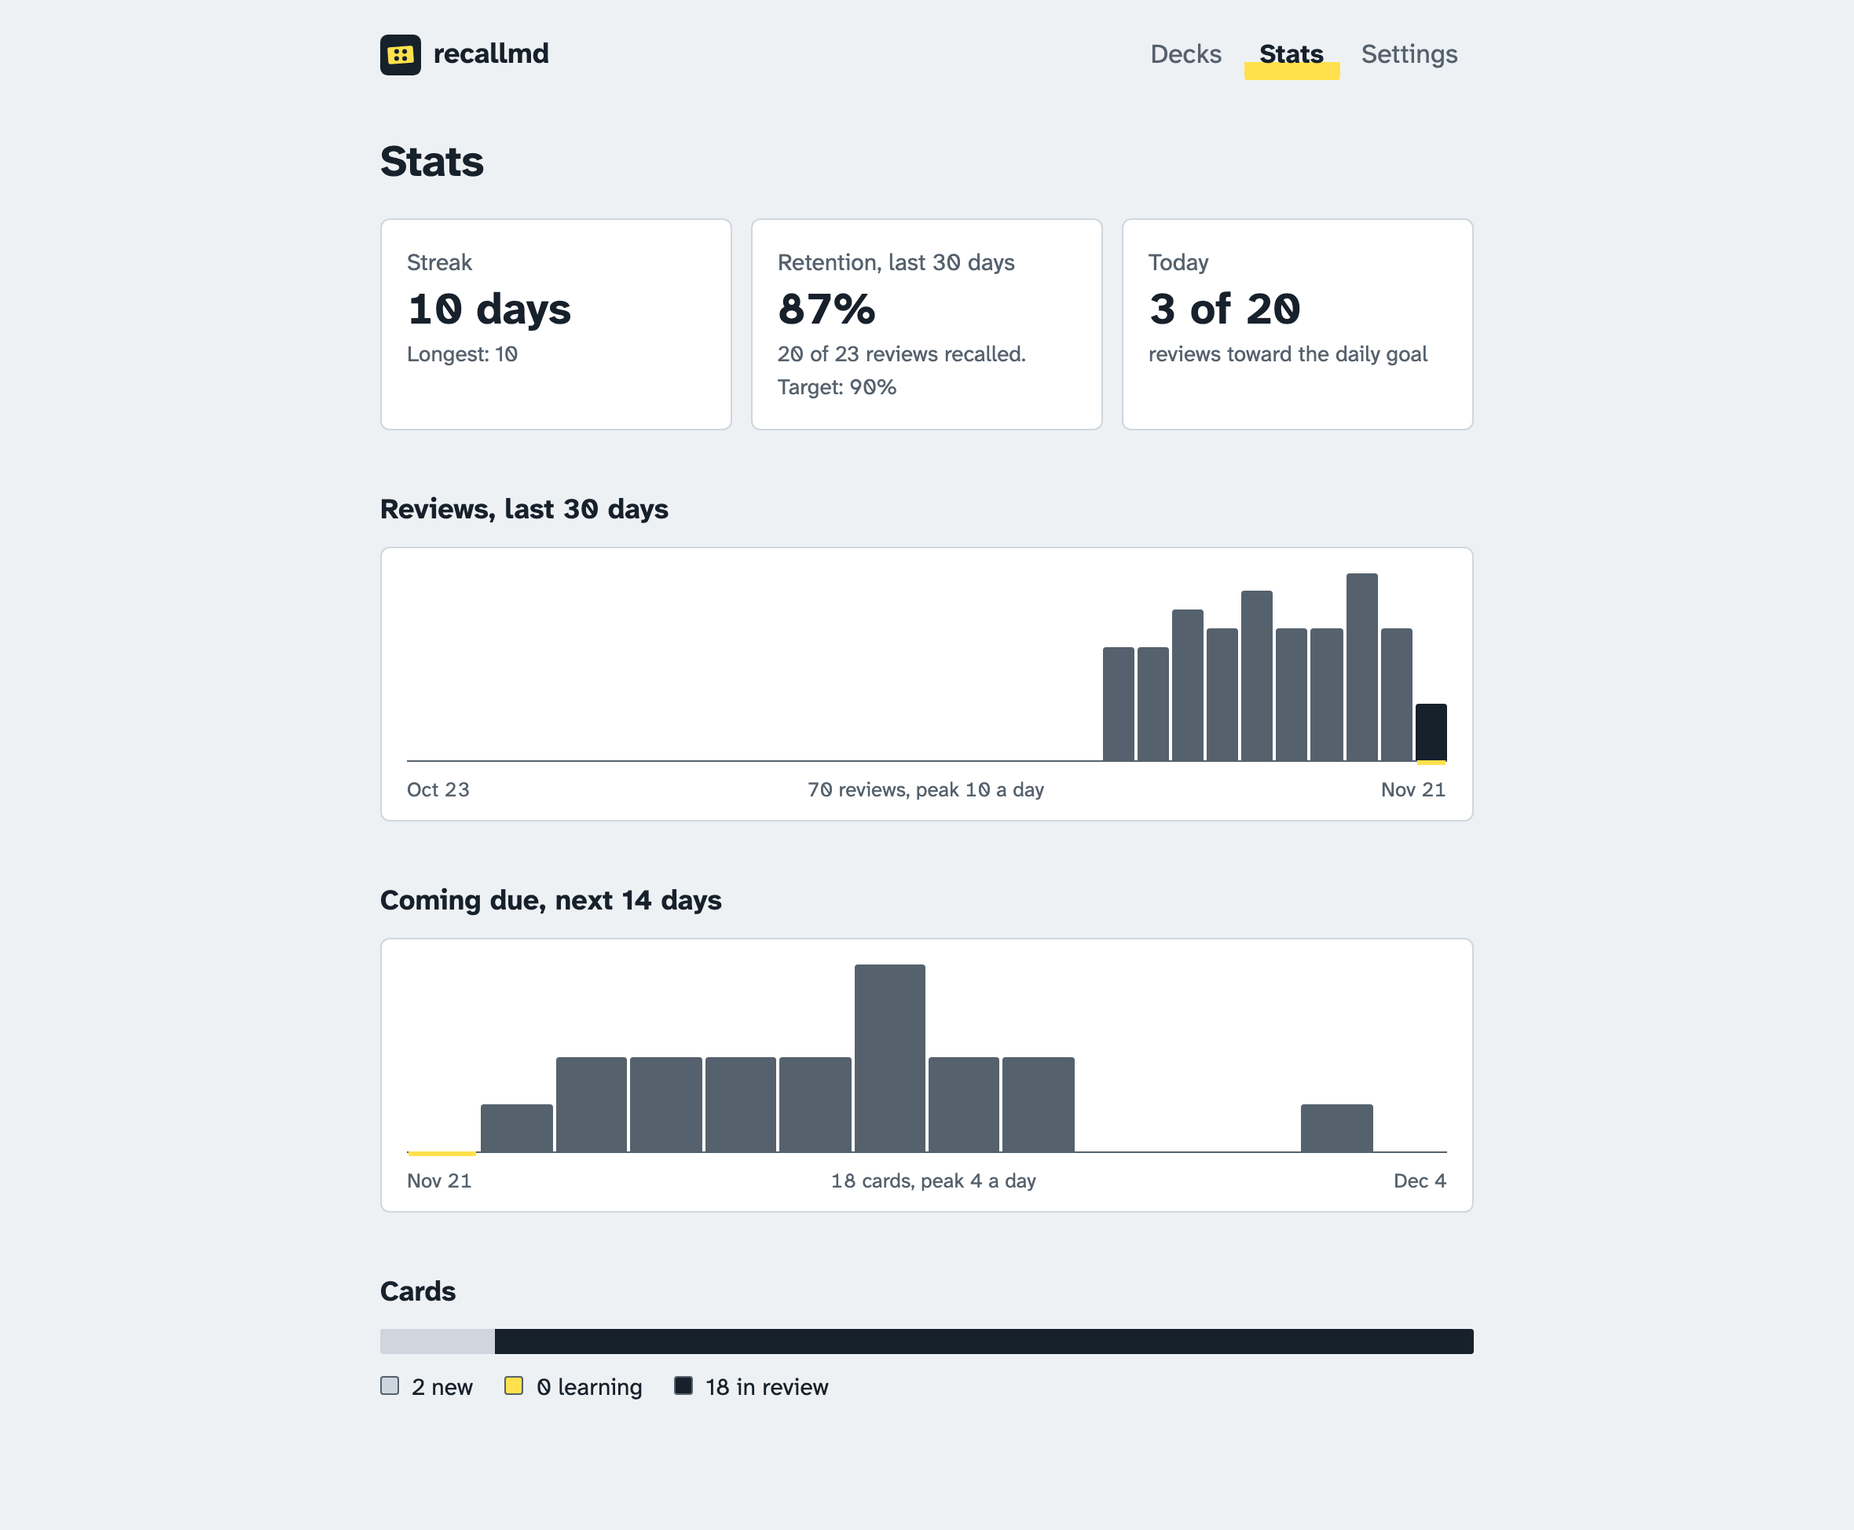
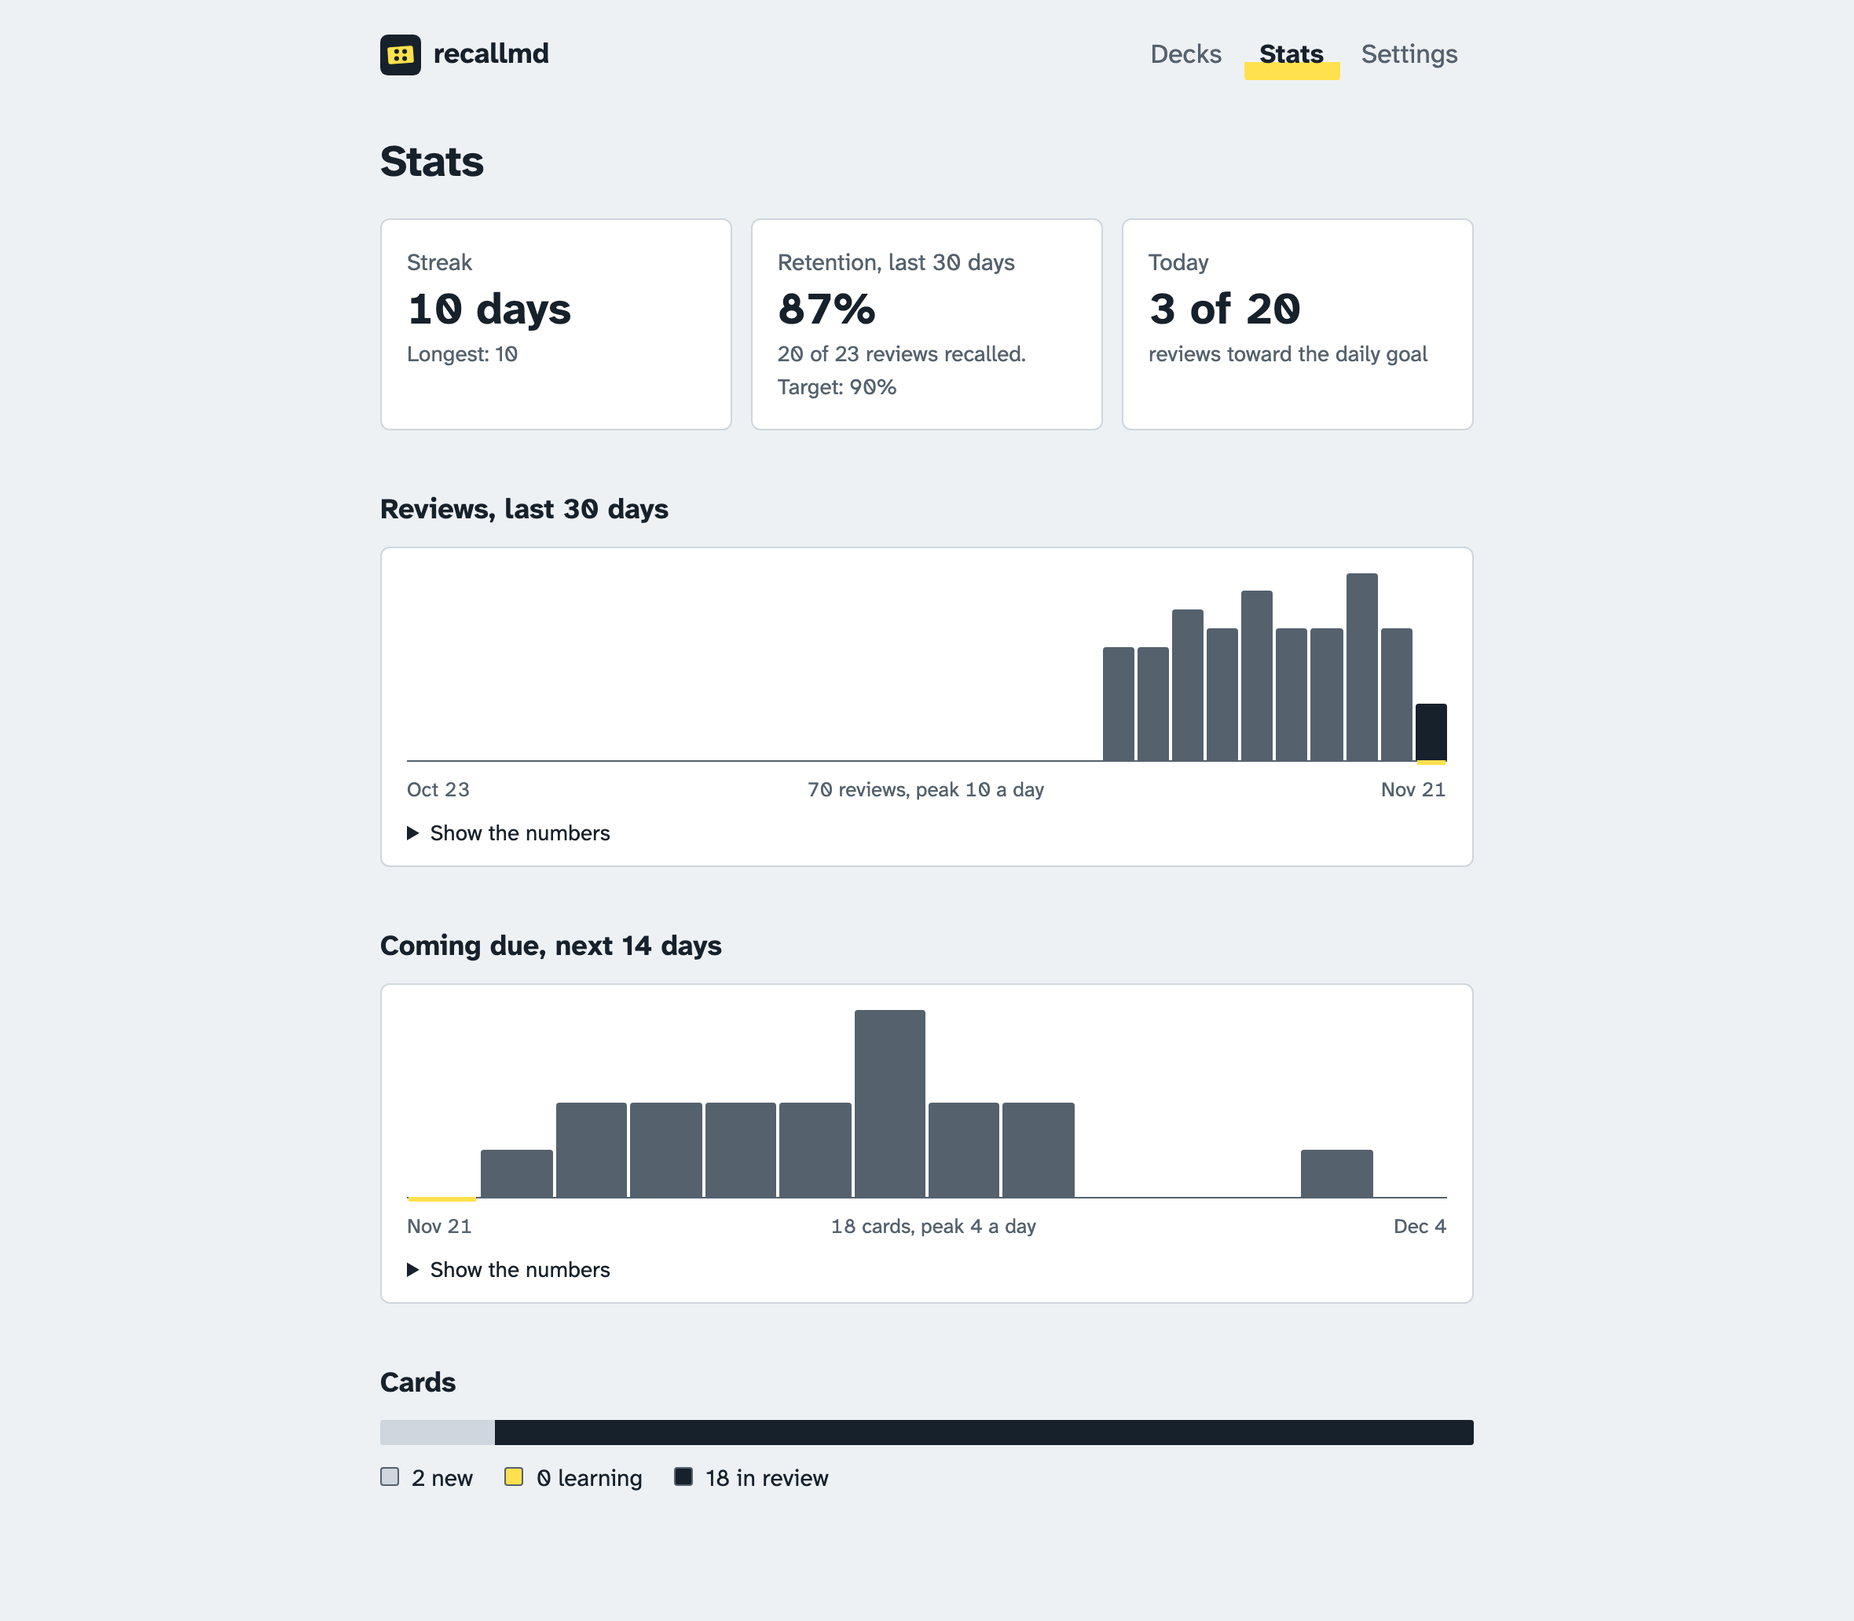
Fix the rest of the review findings
- Money such as "$5 :: $10" is no longer mistaken for math and dropped
- Holding Space no longer answers card after card
- An answer that fails to save is rolled back instead of looking saved
- A tab reloads its data when you return to it
- Charts offer their numbers as a table for screen readers
- An error boundary replaces a blank page with a way out

diff --git a/src/views/Stats.tsx b/src/views/Stats.tsx
@@ -4,15 +4,16 @@ import { countCards, forecast, retention, reviewsPerDay, reviewsToday, shiftDay,
 
 const dayLabel = (t: number) => new Date(t).toLocaleDateString(undefined, { month: 'short', day: 'numeric' });
 
-/** A plain bar chart. `dates[i]` is the day of `values[i]`; one bar may be marked as today. */
+/** A plain bar chart. `dates[i]` is the day of `values[i]`; `unit` is singular; one bar is marked as today. */
 function Bars({ values, dates, today, unit, label }: { values: number[]; dates: number[]; today: number; unit: string; label: string }) {
   const max = Math.max(1, ...values);
   const total = values.reduce((a, b) => a + b, 0);
+  const count = (n: number) => `${n} ${n === 1 ? unit : `${unit}s`}`;
   return (
     <figure className="chart">
-      <div className="bars" role="img" aria-label={`${label}: ${total} ${unit} in total, at most ${max === 1 && total === 0 ? 0 : max} on one day.`}>
+      <div className="bars" role="img" aria-label={`${label}: ${count(total)} in total, at most ${total ? max : 0} on one day. The numbers are in the table below.`}>
         {values.map((v, i) => (
-          <div key={i} className={`col ${i === today ? 'now' : ''}`} title={`${dayLabel(dates[i]!)}: ${v} ${unit}`}>
+          <div key={i} className={`col ${i === today ? 'now' : ''}`} title={`${dayLabel(dates[i]!)}: ${count(v)}`}>
             <div className="fill" style={{ height: `${(v / max) * 100}%` }} />
           </div>
         ))}
@@ -20,10 +21,34 @@ function Bars({ values, dates, today, unit, label }: { values: number[]; dates: 
       <figcaption className="muted">
         <span>{dayLabel(dates[0]!)}</span>
         <span>
-          {total} {unit}, peak {total ? max : 0} a day
+          {count(total)}, peak {total ? max : 0} a day
         </span>
         <span>{dayLabel(dates[dates.length - 1]!)}</span>
       </figcaption>
+      {/* The same numbers as text: for screen readers, and for anyone who wants exact values. */}
+      <details>
+        <summary>Show the numbers</summary>
+        {total ? (
+          <table>
+            <thead>
+              <tr>
+                <th scope="col">Day</th>
+                <th scope="col">{unit}s</th>
+              </tr>
+            </thead>
+            <tbody>
+              {values.map((v, i) => v > 0 && (
+                <tr key={i}>
+                  <th scope="row">{dayLabel(dates[i]!)}</th>
+                  <td>{v}</td>
+                </tr>
+              ))}
+            </tbody>
+          </table>
+        ) : (
+          <p className="muted">Nothing yet.</p>
+        )}
+      </details>
     </figure>
   );
 }
@@ -68,7 +93,7 @@ export function Stats({ data }: { data: AppData }) {
       <h2>Reviews, last {PAST} days</h2>
       <Bars
         label={`Reviews per day over the last ${PAST} days`}
-        unit="reviews"
+        unit="review"
         values={reviewsPerDay(logs, now, PAST)}
         dates={Array.from({ length: PAST }, (_, i) => shiftDay(now, PAST - 1 - i))}
         today={PAST - 1}
@@ -77,7 +102,7 @@ export function Stats({ data }: { data: AppData }) {
       <h2>Coming due, next {AHEAD} days</h2>
       <Bars
         label={`Cards coming due per day over the next ${AHEAD} days, overdue cards counted today`}
-        unit="cards"
+        unit="card"
         values={forecast(cards, states, now, AHEAD)}
         dates={Array.from({ length: AHEAD }, (_, i) => shiftDay(now, -i))}
         today={0}

diff --git a/src/store.ts b/src/store.ts
@@ -43,6 +43,15 @@ export function useStore(): { store?: Store; error?: string; clearError: () => v
     })().catch(fail);
   }, [fail, reload]);
 
+  // Another tab may have studied or imported in the meantime: pick that up on the way back in.
+  useEffect(() => {
+    const refresh = () => {
+      if (document.visibilityState === 'visible') reload().catch(fail);
+    };
+    document.addEventListener('visibilitychange', refresh);
+    return () => document.removeEventListener('visibilitychange', refresh);
+  }, [fail, reload]);
+
   if (!data) return { error, clearError: () => setError(undefined) };
 
   const store: Store = {
@@ -60,19 +69,25 @@ export function useStore(): { store?: Store; error?: string; clearError: () => v
       const next = schedule(previous, rating, now, data.settings.retention);
       const log = { id, t: now, rating, state: previous?.state ?? NEW };
       setData((d) => d && { ...d, states: new Map(d.states).set(id, next), logs: [...d.logs, log] });
+      const forget = () =>
+        setData((d) => {
+          if (!d) return d;
+          const states = new Map(d.states);
+          if (previous) states.set(id, previous);
+          else states.delete(id);
+          return { ...d, states, logs: d.logs.filter((l) => l !== log) };
+        });
       const saved = db.saveReview(next, log);
-      saved.catch(fail);
+      // An answer that could not be stored must not look stored: take it back and say so.
+      saved.catch((e: unknown) => {
+        forget();
+        fail(e);
+      });
       return {
         next,
         undo() {
-          setData((d) => {
-            if (!d) return d;
-            const states = new Map(d.states);
-            if (previous) states.set(id, previous);
-            else states.delete(id);
-            return { ...d, states, logs: d.logs.filter((l) => l !== log) };
-          });
-          saved.then((key) => db.undoReview(id, previous, key)).catch(fail);
+          forget();
+          saved.then((key) => db.undoReview(id, previous, key)).catch(() => undefined); // a failed save was already reported
         },
       };
     },

diff --git a/src/App.tsx b/src/App.tsx
@@ -1,4 +1,4 @@
-import { useEffect, useState, useSyncExternalStore } from 'react';
+import { Component, useEffect, useState, useSyncExternalStore, type ReactNode } from 'react';
 import { inDeck } from './lib/stats';
 import { useStore } from './store';
 import { Home } from './views/Home';
@@ -31,6 +31,31 @@ export function useNow(): number {
     };
   }, []);
   return now;
+}
+
+/** A crash in one screen should not leave a blank page: say what happened and offer a way out. */
+class Boundary extends Component<{ children: ReactNode }, { failed: boolean }> {
+  state = { failed: false };
+  static getDerivedStateFromError() {
+    return { failed: true };
+  }
+  render() {
+    if (!this.state.failed) return this.props.children;
+    return (
+      <section role="alert">
+        <h1>This screen ran into a problem</h1>
+        <p>Your cards and review history are stored safely and were not changed by this.</p>
+        <div className="actions">
+          <button className="button primary" onClick={() => location.reload()}>
+            Reload recallmd
+          </button>
+          <a className="button" href="#/settings" onClick={() => this.setState({ failed: false })}>
+            Open Settings to export your data
+          </a>
+        </div>
+      </section>
+    );
+  }
 }
 
 const NAV = [
@@ -80,7 +105,10 @@ export function App() {
           Something could not be saved: {error} <button onClick={clearError}>Dismiss</button>
         </p>
       )}
-      <main className="page">{page}</main>
+      <main className="page">
+        {/* Keyed by route: leaving the broken screen clears the error. */}
+        <Boundary key={route.path}>{page}</Boundary>
+      </main>
     </>
   );
 }

diff --git a/e2e/app.spec.ts b/e2e/app.spec.ts
@@ -38,9 +38,12 @@ test('review with the keyboard: reveal, rate, undo', async ({ page }) => {
   await expect(card).not.toContainText('Two colons');
   await expect(page.getByText('10 to go')).toBeVisible();
 
-  await page.keyboard.press('Space');
+  await page.keyboard.down('Space');
+  await page.keyboard.down('Space'); // held down: the auto-repeat must not rate the card
+  await page.keyboard.up('Space');
   await expect(card).toContainText('Two colons');
   await expect(page.getByRole('button', { name: /Again/ })).toBeVisible();
+  await expect(page.getByText('10 to go')).toBeVisible();
 
   await page.keyboard.press('4'); // Easy: gone until another day
   await expect(card).toContainText('Which key shows the answer');
@@ -216,6 +219,9 @@ test('scheduling: an Easy card leaves today and comes back when due', async ({ p
   await expect(page.getByRole('article', { name: 'Flashcard' })).toContainText('Only question');
   await page.goto('/#/stats');
   await expect(page.getByText('Longest: 1')).toBeVisible();
+  // The chart's numbers are also available as a table.
+  await page.getByText('Show the numbers').first().click();
+  await expect(page.getByRole('row', { name: 'Jan 10 1' })).toBeVisible();
 });
 
 test('export, erase and restore progress', async ({ page }) => {

diff --git a/src/lib/parser.ts b/src/lib/parser.ts
@@ -67,10 +67,19 @@ export function cardId(kind: CardKind, question: string): string {
   return hash(`${kind}\n${normalize(question)}`);
 }
 
+/**
+ * Inline math, by Pandoc's rule: no space just inside the dollars and no digit after the
+ * closing one, so "$5 and $10" is money. The renderer uses the same pattern, so what is
+ * hidden from the parser is exactly what gets rendered as math.
+ */
+export const INLINE_MATH = String.raw`\$(?!\s)((?:\\.|[^\\\n$])+?)(?<!\s)\$(?!\d)`;
+
+// A code span closes on a backtick run of the same length, so ``a ` b`` is one span.
+const INERT = new RegExp(String.raw`(\`+)[^\n]*?[^\`\n]\1(?!\`)|\$\$[^\n]+?\$\$|${INLINE_MATH}`, 'g');
+
 /** Blank out inline code and inline math so card syntax inside them is ignored. Length is preserved. */
 function mask(line: string): string {
-  // A code span closes on a backtick run of the same length, so ``a ` b`` is one span.
-  return line.replace(/(`+)[^\n]*?[^`\n]\1(?!`)|\$[^$\n]+\$/g, (m) => '\0'.repeat(m.length));
+  return line.replace(INERT, (m) => '\0'.repeat(m.length));
 }
 
 /** Index of the first " :: " separator outside code and math, or -1. */

diff --git a/src/lib/markdown.ts b/src/lib/markdown.ts
@@ -2,6 +2,9 @@
 import DOMPurify from 'dompurify';
 import type { HLJSApi } from 'highlight.js';
 import { Marked } from 'marked';
+import { INLINE_MATH } from './parser';
+
+const INLINE_MATH_START = new RegExp(`^${INLINE_MATH}`);
 
 let katex: typeof import('katex').default | undefined;
 let hljs: HLJSApi | undefined;
@@ -73,8 +76,7 @@ const marked = new Marked({
       tokenizer(src) {
         const display = /^\$\$([^\n]+?)\$\$/.exec(src);
         if (display) return { type: 'inlineMath', raw: display[0], text: display[1]!.trim(), display: true };
-        // Pandoc's rule, so "$5 and $10" stays text: no space inside the dollars, no digit after.
-        const m = /^\$(?!\s)((?:\\.|[^\\\n$])+?)(?<!\s)\$(?!\d)/.exec(src);
+        const m = INLINE_MATH_START.exec(src);
         if (m) return { type: 'inlineMath', raw: m[0], text: m[1]!, display: false };
       },
       renderer: (token) => math(token.text, token.display),

diff --git a/src/views/Review.tsx b/src/views/Review.tsx
@@ -67,7 +67,8 @@ export function Review({ store, cards, title }: { store: Store; cards: Card[]; t
     const onKey = (e: KeyboardEvent) => {
       const k = keys.current;
       const target = e.target as HTMLElement;
-      if (e.ctrlKey || e.metaKey || e.altKey || /^(INPUT|TEXTAREA|SELECT)$/.test(target.tagName)) return;
+      // e.repeat: holding Space must not answer card after card.
+      if (e.repeat || e.ctrlKey || e.metaKey || e.altKey || /^(INPUT|TEXTAREA|SELECT)$/.test(target.tagName)) return;
       // flushSync: render before the next key arrives, so fast typing never acts on a stale card.
       flushSync(() => {
         if (e.key === 'Escape') {

diff --git a/src/lib/parser.test.ts b/src/lib/parser.test.ts
@@ -40,6 +40,12 @@ describe('one-line cards', () => {
     expect(pairs('```html\n<!-- kept -->\n```\nQ: q\nA: `x` <!-- gone -->')).toEqual([['q', '`x`']]);
   });
 
+  it('does not mistake money for math', () => {
+    expect(pairs('Prices $5 :: $10')).toEqual([['Prices $5', '$10']]);
+    expect(pairs('Cost in $ :: Around $5 or $10')).toEqual([['Cost in $', 'Around $5 or $10']]);
+    expect(pairs('Display $$a :: b$$ only')).toEqual([]);
+  });
+
   it('keeps later separators in the answer', () => {
     expect(pairs('q :: a :: b')).toEqual([['q', 'a :: b']]);
   });

diff --git a/src/styles.css b/src/styles.css
@@ -656,6 +656,28 @@ mark {
   font-size: 0.8125rem;
   font-variant-numeric: tabular-nums;
 }
+.chart details {
+  margin-top: 0.5rem;
+  font-size: 0.875rem;
+}
+.chart table {
+  border-collapse: collapse;
+  margin: 0.5rem 0;
+  font-variant-numeric: tabular-nums;
+}
+.chart th,
+.chart td {
+  text-align: left;
+  font-weight: 400;
+  padding: 0.125rem 1.5rem 0.125rem 0;
+}
+.chart thead th {
+  color: var(--muted);
+  text-transform: capitalize;
+}
+.chart td {
+  text-align: right;
+}
 .stack {
   display: flex;
   gap: 2px;

diff --git a/README.md b/README.md
@@ -66,7 +66,7 @@ Card syntax inside code fences, inline code, inline math and one-line HTML comme
 - **Progress survives edits.** A card's identity is a hash of its question, not its file, position or answer. Fix an answer, move or rename the note, and the card keeps its schedule. If you reword a question but keep its answer, re-importing matches the old card to the new one by similarity and carries the progress over. (Change both and it is treated as a new card.)
 - **FSRS scheduling** (via [ts-fsrs](https://github.com/open-spaced-repetition/ts-fsrs)) with Again / Hard / Good / Easy. Each button shows when the card would come back. Desired retention is adjustable (70–97%).
 - **Keyboard-first review.** `Space` or `Enter` shows the answer, `1`–`4` rate it, `Space` again means Good, `Z` undoes the last answer, `Esc` goes back to the decks.
-- **Daily goal, streak and stats**: reviews per day for the last 30 days, cards coming due over the next 14, true retention, and how many cards are new, learning and in review.
+- **Daily goal, streak and stats**: reviews per day for the last 30 days, cards coming due over the next 14, true retention, and how many cards are new, learning and in review. Each chart can also be read as a table.
 - **Offline PWA.** After the first visit to a production build the app, fonts, KaTeX and the code highlighter are all cached; it can be installed and used without a connection.
 - **Your data is yours.** Cards, schedule and history are stored in IndexedDB in your browser. Settings → Export progress writes one JSON file; importing it on another browser or device restores everything.
 - Light and dark themes following the system setting, and a layout that works on a phone.
@@ -105,6 +105,7 @@ CI runs all four on every push. `.github/workflows/deploy.yml` builds and publis
 ## Limits worth knowing
 
 - There is no sync. Data lives in one browser profile; use Export progress to back it up or move it.
+- Study in one tab at a time. A tab picks up changes made elsewhere when you switch back to it, but two tabs reviewing side by side can overwrite each other's scheduling.
 - The browser cannot watch your files. After editing notes, import them again (the preview shows what changed).
 - Only text is imported. Local images and Obsidian `![[embeds]]` are shown as a name, not the file. Images linked by `http(s)` URL are loaded from their server when the card is shown.
 - Picking or dropping a folder depends on browser support; on most phones you can only pick files or paste text.

diff --git a/CHANGELOG.md b/CHANGELOG.md
@@ -25,6 +25,7 @@ First release.
 - Commands: `npm run dev` (port 4130), `npm run typecheck`, `npm test`, `npm run build`, `npm run preview` (port 4131), `npm run e2e` (needs a build first).
 - All logic lives in `src/lib/` as pure functions with tests next to them; `src/views/` is thin. Start with `parser.ts` and `scheduler.ts`.
 - `Card.seq` exists because IndexedDB returns cards in id order; `byNote` restores note order after loading.
+- A second-opinion review (Codex) found eleven issues before release; all were fixed except true multi-tab safety, which is mitigated (a tab reloads its data when it becomes visible) and listed under Limits in the README. Doing it properly means reading, scheduling and writing inside one IndexedDB transaction.
 - `db.ts` calls `tx.commit()` on purpose: without it an answer given just before a reload was lost. `e2e/app.spec.ts` has the regression test.
 - The Content-Security-Policy is injected by a small plugin in `vite.config.ts`, for builds only.
 - Screenshots: `npm run build && npm run preview`, then `node scripts/screenshots.mjs`. Icons: `node scripts/make-icons.mjs` after editing `public/icon.svg`.
